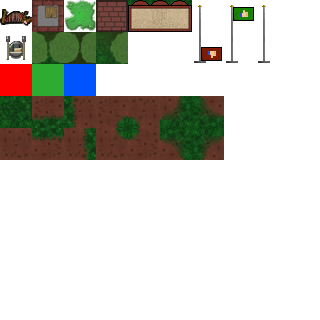
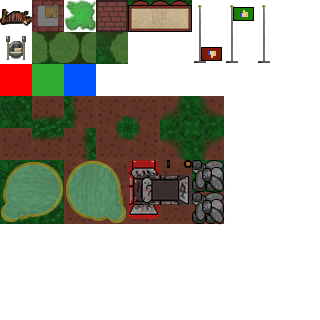
Tidy up, collision arrays

Changed region(s): [[0.0, 0.5, 0.7188, 0.7188]]

diff --git a/LDJAM27/map1/map1.js b/LDJAM27/map1/map1.js
@@ -1,7 +1,7 @@
 map1 = { "height":20,
  "layers":[
         {
-         "data":[31, 31, 31, 41, 41, 41, 37, 32, 35, 41, 41, 44, 46, 14, 13, 13, 13, 13, 13, 13, 31, 31, 31, 41, 41, 41, 41, 41, 33, 41, 41, 41, 44, 46, 31, 14, 12, 12, 13, 13, 31, 31, 31, 47, 42, 42, 42, 42, 45, 41, 41, 41, 41, 44, 42, 42, 46, 31, 14, 12, 31, 31, 47, 45, 41, 41, 41, 41, 41, 41, 41, 41, 41, 41, 41, 41, 44, 46, 31, 31, 31, 47, 45, 41, 41, 41, 41, 41, 41, 41, 41, 41, 41, 41, 41, 41, 41, 44, 46, 31, 47, 45, 41, 41, 41, 41, 41, 41, 41, 41, 41, 41, 41, 41, 41, 41, 41, 41, 43, 31, 33, 41, 41, 41, 41, 41, 41, 41, 41, 41, 41, 41, 41, 41, 41, 41, 41, 41, 43, 31, 37, 32, 35, 41, 41, 41, 41, 41, 41, 41, 41, 41, 41, 41, 41, 41, 41, 41, 44, 46, 41, 31, 33, 41, 41, 41, 41, 41, 41, 41, 41, 41, 41, 41, 41, 41, 41, 41, 41, 44, 41, 31, 37, 35, 41, 41, 41, 41, 41, 41, 41, 41, 41, 41, 41, 41, 41, 41, 41, 41, 41, 31, 31, 33, 41, 41, 41, 41, 41, 41, 41, 41, 41, 41, 41, 41, 41, 41, 41, 41, 41, 31, 31, 33, 41, 41, 41, 41, 41, 41, 41, 41, 41, 41, 41, 41, 41, 41, 41, 41, 31, 31, 47, 45, 41, 41, 41, 41, 41, 41, 41, 41, 41, 41, 41, 41, 41, 41, 41, 41, 31, 47, 45, 41, 41, 41, 41, 41, 41, 41, 41, 41, 41, 41, 41, 41, 41, 41, 41, 41, 41, 45, 41, 41, 41, 41, 41, 41, 41, 41, 41, 41, 41, 41, 41, 41, 41, 41, 41, 41, 41, 41, 41, 41, 41, 41, 41, 41, 41, 41, 41, 41, 41, 41, 41, 41, 41, 41, 41, 41, 41, 41, 41, 32, 32, 32, 32, 32, 32, 32, 32, 32, 32, 32, 32, 32, 32, 41, 41, 41, 41, 41, 41, 31, 31, 31, 31, 31, 31, 31, 31, 31, 31, 31, 31, 31, 31, 41, 41, 41, 41, 41, 41, 31, 31, 31, 31, 31, 31, 31, 31, 31, 31, 31, 31, 31, 31, 41, 41, 41, 41, 41, 41, 41, 41, 31, 31, 31, 31, 5, 6, 31, 31, 31, 31, 31, 41, 41, 41, 41],
+         "data":[31, 31, 31, 31, 41, 41, 41, 41, 44, 42, 42, 46, 31, 31, 14, 13, 13, 13, 13, 13, 31, 31, 31, 31, 41, 41, 41, 41, 41, 41, 41, 44, 46, 31, 31, 31, 14, 12, 13, 13, 31, 31, 31, 31, 31, 41, 41, 41, 41, 41, 41, 41, 44, 42, 42, 46, 31, 31, 14, 12, 31, 31, 31, 31, 31, 31, 41, 41, 41, 41, 41, 41, 41, 41, 41, 44, 42, 46, 31, 31, 31, 31, 31, 31, 31, 31, 41, 41, 41, 41, 41, 41, 41, 41, 41, 41, 41, 44, 42, 42, 31, 31, 31, 31, 31, 31, 33, 41, 41, 41, 41, 41, 41, 41, 41, 41, 41, 41, 41, 41, 46, 31, 47, 42, 42, 42, 45, 41, 41, 41, 41, 41, 41, 41, 41, 41, 41, 41, 41, 41, 41, 31, 41, 41, 41, 41, 41, 41, 41, 41, 41, 41, 41, 41, 41, 41, 41, 41, 41, 41, 41, 42, 46, 41, 41, 41, 41, 41, 41, 41, 41, 41, 41, 41, 41, 41, 41, 41, 41, 41, 41, 41, 44, 41, 41, 41, 41, 41, 41, 41, 41, 41, 41, 41, 41, 41, 41, 41, 41, 41, 41, 41, 41, 41, 41, 41, 41, 41, 41, 41, 41, 41, 41, 41, 41, 41, 41, 41, 41, 41, 41, 41, 41, 41, 41, 41, 41, 41, 41, 41, 41, 41, 41, 41, 41, 41, 41, 41, 41, 41, 41, 41, 41, 41, 41, 41, 41, 41, 41, 41, 41, 41, 41, 41, 41, 41, 41, 41, 41, 41, 41, 41, 41, 41, 41, 41, 41, 41, 41, 41, 41, 41, 41, 41, 41, 41, 41, 41, 41, 41, 41, 41, 41, 41, 41, 41, 41, 41, 41, 41, 41, 41, 41, 41, 41, 41, 41, 41, 41, 41, 41, 41, 41, 41, 41, 41, 41, 41, 41, 41, 41, 41, 41, 41, 41, 41, 41, 41, 41, 41, 41, 41, 41, 41, 41, 41, 41, 41, 41, 41, 41, 41, 41, 41, 41, 41, 41, 41, 41, 41, 41, 41, 41, 31, 31, 31, 31, 31, 31, 31, 31, 31, 31, 31, 31, 31, 31, 31, 41, 41, 41, 41, 41, 41, 31, 31, 31, 31, 31, 31, 31, 31, 31, 31, 31, 31, 31, 41, 41, 41, 41, 41, 41, 41, 41, 31, 31, 31, 31, 5, 6, 31, 31, 31, 31, 31, 41, 41, 41, 41],
          "height":20,
          "name":"Terrain",
          "opacity":1,
@@ -12,7 +12,7 @@ map1 = { "height":20,
          "y":0
         }, 
         {
-         "data":[0, 0, 0, 4, 4, 4, 0, 0, 0, 0, 0, 0, 0, 0, 0, 0, 0, 0, 0, 0, 0, 0, 0, 4, 4, 4, 4, 4, 0, 0, 0, 0, 0, 0, 0, 0, 0, 0, 0, 0, 0, 0, 0, 0, 0, 0, 0, 0, 0, 0, 0, 0, 0, 0, 0, 0, 0, 0, 0, 0, 0, 0, 0, 0, 0, 0, 0, 0, 0, 0, 0, 0, 0, 0, 0, 0, 0, 0, 0, 0, 0, 0, 0, 0, 0, 0, 0, 0, 0, 0, 0, 0, 0, 0, 0, 0, 0, 0, 0, 0, 0, 0, 0, 0, 0, 0, 0, 0, 0, 0, 0, 0, 4, 4, 0, 0, 0, 0, 0, 0, 0, 0, 0, 0, 0, 0, 0, 4, 4, 4, 4, 4, 4, 4, 4, 0, 0, 0, 0, 0, 0, 0, 0, 0, 0, 0, 0, 0, 0, 4, 4, 4, 4, 4, 4, 0, 0, 0, 0, 0, 4, 0, 0, 0, 0, 0, 0, 0, 4, 4, 0, 0, 0, 0, 0, 0, 0, 0, 0, 0, 4, 0, 0, 0, 0, 0, 0, 0, 0, 0, 0, 0, 0, 0, 0, 0, 0, 0, 0, 0, 4, 0, 0, 0, 0, 0, 0, 0, 0, 0, 0, 0, 0, 0, 4, 0, 0, 0, 0, 0, 4, 0, 0, 0, 0, 0, 0, 0, 0, 0, 0, 0, 0, 0, 4, 4, 0, 0, 0, 0, 0, 0, 0, 0, 0, 0, 0, 0, 0, 0, 0, 0, 0, 0, 0, 0, 0, 0, 0, 0, 0, 0, 0, 0, 0, 0, 0, 0, 0, 0, 0, 0, 0, 0, 0, 0, 0, 0, 0, 0, 4, 0, 0, 0, 0, 0, 0, 0, 0, 0, 0, 0, 0, 0, 0, 0, 0, 0, 0, 4, 4, 4, 0, 0, 0, 0, 0, 0, 0, 0, 0, 0, 0, 0, 0, 0, 0, 0, 4, 4, 4, 4, 4, 0, 0, 0, 0, 0, 0, 0, 0, 0, 0, 0, 0, 0, 0, 4, 4, 4, 4, 4, 4, 0, 0, 0, 0, 0, 0, 0, 0, 0, 0, 0, 0, 0, 0, 4, 4, 4, 4, 4, 4, 0, 0, 0, 0, 0, 8, 0, 0, 0, 0, 0, 0, 0, 0, 4, 4, 4, 4, 4, 4, 4, 4, 0, 0, 0, 18, 0, 0, 0, 0, 0, 0, 0, 4, 4, 4, 4],
+         "data":[0, 0, 0, 0, 57, 37, 35, 0, 0, 0, 0, 0, 0, 0, 0, 0, 0, 0, 0, 0, 0, 0, 0, 0, 57, 57, 37, 35, 0, 0, 0, 0, 0, 0, 0, 0, 0, 0, 0, 0, 0, 0, 0, 0, 0, 57, 57, 33, 0, 0, 0, 0, 0, 0, 0, 0, 0, 0, 0, 0, 0, 51, 52, 0, 0, 0, 57, 33, 0, 0, 0, 0, 0, 0, 0, 0, 0, 0, 0, 0, 0, 61, 62, 0, 0, 0, 57, 33, 0, 0, 0, 0, 0, 0, 0, 0, 0, 0, 0, 0, 0, 0, 0, 0, 0, 0, 47, 45, 0, 0, 0, 0, 0, 0, 0, 0, 0, 0, 0, 0, 31, 0, 31, 31, 47, 0, 0, 0, 0, 0, 0, 0, 55, 56, 0, 0, 0, 0, 0, 0, 57, 0, 57, 57, 33, 0, 0, 0, 0, 0, 0, 0, 65, 66, 0, 0, 0, 0, 0, 0, 57, 47, 0, 57, 33, 0, 0, 0, 0, 0, 0, 0, 67, 0, 0, 0, 0, 0, 0, 0, 57, 33, 43, 57, 33, 0, 0, 53, 54, 0, 0, 67, 67, 0, 0, 0, 0, 0, 0, 0, 57, 33, 43, 57, 37, 35, 0, 63, 64, 0, 0, 67, 67, 0, 0, 0, 0, 0, 0, 0, 42, 45, 43, 57, 57, 33, 0, 0, 0, 0, 0, 67, 67, 0, 0, 0, 0, 0, 0, 0, 0, 0, 44, 42, 42, 45, 0, 0, 0, 0, 0, 67, 0, 0, 0, 0, 0, 0, 0, 0, 57, 0, 0, 0, 0, 0, 0, 0, 0, 0, 0, 0, 0, 0, 0, 0, 0, 0, 0, 0, 57, 0, 0, 0, 0, 0, 0, 0, 0, 0, 0, 0, 0, 0, 0, 0, 0, 0, 0, 67, 57, 57, 0, 0, 0, 0, 0, 0, 0, 0, 0, 0, 0, 0, 0, 0, 0, 0, 0, 67, 57, 57, 57, 0, 0, 0, 0, 0, 0, 0, 0, 0, 0, 0, 0, 0, 0, 0, 67, 67, 57, 57, 57, 0, 0, 0, 0, 0, 0, 0, 0, 0, 0, 0, 0, 0, 0, 0, 57, 57, 57, 57, 57, 57, 0, 0, 0, 0, 0, 0, 0, 0, 0, 0, 0, 0, 0, 57, 57, 57, 57, 57, 57, 57, 57, 0, 0, 0, 0, 0, 0, 0, 0, 0, 0, 0, 57, 57, 57, 57],
          "height":20,
          "name":"Impassable",
          "opacity":1,
@@ -23,7 +23,7 @@ map1 = { "height":20,
          "y":0
         }, 
         {
-         "data":[0, 0, 0, 0, 0, 0, 0, 0, 0, 0, 0, 0, 0, 0, 0, 0, 0, 0, 0, 0, 0, 0, 0, 0, 0, 0, 0, 0, 0, 0, 0, 0, 0, 0, 0, 0, 0, 0, 0, 0, 0, 0, 0, 0, 0, 0, 0, 0, 0, 0, 0, 0, 0, 0, 0, 0, 0, 0, 0, 0, 0, 0, 0, 0, 1, 0, 0, 0, 0, 0, 0, 0, 0, 0, 0, 0, 0, 0, 0, 0, 0, 0, 0, 0, 1, 0, 0, 0, 0, 0, 0, 0, 0, 0, 0, 0, 0, 0, 0, 0, 0, 0, 0, 0, 1, 0, 0, 0, 0, 0, 0, 0, 0, 0, 0, 0, 0, 0, 0, 0, 0, 0, 0, 0, 0, 0, 0, 0, 0, 0, 0, 0, 0, 0, 0, 0, 0, 0, 0, 0, 0, 0, 0, 0, 0, 0, 0, 0, 0, 0, 0, 0, 0, 0, 0, 0, 0, 0, 0, 0, 0, 0, 0, 0, 0, 0, 0, 0, 0, 0, 0, 0, 0, 3, 3, 0, 0, 0, 0, 0, 0, 0, 0, 2, 2, 2, 2, 0, 0, 0, 0, 0, 0, 3, 3, 0, 0, 0, 0, 0, 0, 0, 0, 11, 11, 11, 11, 0, 0, 0, 0, 0, 0, 0, 0, 0, 0, 0, 0, 0, 0, 0, 0, 0, 0, 0, 0, 0, 0, 0, 0, 0, 0, 0, 0, 0, 0, 0, 0, 0, 0, 0, 0, 0, 0, 0, 0, 0, 0, 0, 0, 0, 0, 0, 0, 0, 0, 0, 0, 0, 0, 0, 0, 0, 0, 0, 0, 0, 0, 0, 0, 0, 0, 0, 0, 0, 41, 0, 0, 0, 0, 0, 0, 0, 0, 0, 0, 0, 0, 0, 0, 0, 0, 0, 0, 0, 0, 0, 0, 0, 0, 0, 0, 0, 0, 0, 0, 0, 0, 0, 0, 0, 0, 0, 0, 0, 0, 0, 0, 0, 0, 0, 0, 0, 0, 0, 0, 0, 0, 0, 0, 0, 2, 11, 1, 3, 0, 0, 0, 0, 0, 0, 0, 0, 0, 0, 0, 0, 0, 0, 0, 0, 2, 11, 1, 3, 0, 0, 0, 0, 0, 0, 0, 0, 0, 0, 0, 0, 0, 0, 0, 0, 0, 0, 0, 0, 0, 0, 0, 0, 0, 0, 0, 0, 0, 0, 0, 0, 0, 0, 0, 0, 0, 0, 0, 0, 0, 0, 0, 0],
+         "data":[0, 0, 0, 0, 0, 0, 0, 0, 0, 0, 0, 0, 0, 0, 0, 0, 0, 0, 0, 0, 0, 0, 0, 0, 0, 0, 0, 0, 0, 0, 0, 0, 0, 0, 0, 0, 0, 0, 0, 0, 0, 0, 0, 0, 0, 0, 0, 0, 0, 0, 0, 0, 0, 0, 0, 0, 0, 0, 0, 0, 0, 0, 0, 0, 0, 0, 0, 0, 0, 0, 0, 0, 0, 0, 0, 0, 0, 0, 0, 0, 0, 0, 0, 0, 0, 0, 0, 0, 0, 0, 0, 0, 0, 0, 0, 0, 0, 0, 0, 0, 0, 0, 0, 0, 0, 0, 0, 0, 0, 0, 0, 0, 0, 0, 0, 0, 0, 0, 0, 0, 0, 0, 0, 0, 0, 0, 0, 0, 0, 0, 0, 0, 0, 0, 0, 0, 0, 0, 0, 0, 0, 0, 0, 0, 0, 0, 0, 0, 0, 0, 0, 0, 0, 0, 0, 0, 0, 0, 0, 0, 0, 0, 0, 0, 0, 0, 0, 0, 0, 0, 0, 0, 0, 0, 0, 0, 0, 0, 0, 0, 0, 0, 0, 0, 0, 0, 0, 0, 0, 0, 0, 0, 0, 0, 0, 0, 0, 0, 0, 0, 0, 0, 0, 0, 0, 0, 0, 0, 0, 0, 0, 0, 0, 0, 0, 0, 0, 0, 0, 0, 0, 0, 0, 0, 0, 0, 0, 0, 0, 0, 0, 0, 0, 0, 0, 0, 0, 0, 0, 0, 0, 0, 0, 0, 0, 0, 0, 0, 0, 0, 0, 0, 0, 0, 0, 0, 0, 0, 0, 0, 0, 0, 0, 0, 0, 0, 0, 0, 0, 0, 0, 0, 0, 0, 0, 0, 0, 0, 0, 0, 0, 37, 35, 0, 0, 0, 0, 0, 0, 0, 0, 0, 0, 0, 0, 0, 0, 0, 0, 0, 0, 0, 37, 35, 0, 0, 0, 0, 0, 0, 0, 0, 0, 0, 0, 0, 0, 0, 0, 0, 0, 0, 0, 37, 0, 0, 0, 0, 0, 0, 0, 0, 0, 0, 0, 0, 0, 0, 0, 0, 0, 0, 0, 0, 0, 0, 0, 0, 0, 0, 0, 0, 0, 0, 0, 0, 0, 0, 0, 0, 0, 0, 0, 0, 0, 0, 0, 0, 0, 0, 0, 0, 0, 0, 0, 0, 0, 0, 0, 0, 0, 0, 0, 0, 0, 0, 0, 0, 0, 0, 0, 0, 0, 0, 0, 0, 0, 0, 0, 0],
          "height":20,
          "name":"Weapons",
          "opacity":1,
@@ -46,7 +46,7 @@ map1 = { "height":20,
          "imageheight":320,
          "imagewidth":320,
          "margin":0,
-         "name":"tile sheet",
+         "name":"tile_sheet",
          "properties":
             {
 

diff --git a/LDJAM27/main.html b/LDJAM27/main.html
@@ -8,29 +8,12 @@
 <script src="tilemap.js"></script>
 <script src="zombie.js"></script>
 <script src="map1/map1.js"></script>
+<script src="game.js"></script>
 </head>
 <body>
 <script>
-var GAME_WIDTH = 640;
+var GAME_WIDTH = 840;
 var GAME_HEIGHT = 640;
-
-var lastFrame=new Date();
-
-var assetsToLoad = [ "bgsmall.png","scaryzombie.png" ];
-
-var assetloader = new PIXI.AssetLoader(assetsToLoad);
-
-var zombies = new entityList;
-
-//var map = newTileMap("map1");
-
-assetloader.onComplete = load;
-
-var renderer = PIXI.autoDetectRenderer(GAME_WIDTH,GAME_HEIGHT);
-
-var stage = new PIXI.Stage(0xFFFFFF,true);
-
-document.body.appendChild(renderer.view);
 
 // Stolen from http://29a.ch/sandbox/2012/fluidcanvas/fluid.js
 var requestAnimationFrame = (window.requestAnimationFrame || 
@@ -41,55 +24,17 @@ var requestAnimationFrame = (window.requestAnimationFrame ||
     function( callback ){
         window.setTimeout(callback, 1000 / 60);
     });
-    
-assetloader.load();
 
-function load() {
-    loadTileMap(map1,stage);
-    alert("Tile map loaded!");
-    stevetexture = PIXI.Texture.fromImage("scaryzombie.png");
-    stevesprite = new PIXI.Sprite(stevetexture);
-    stevesprite.scale = new PIXI.Point(6.4,6.4);
-    steve = new zombie(stevesprite);
-    stage.addChild(stevesprite);
-    
-    zombies.add(steve);
-    
-    requestAnimationFrame(gameLoop);
-}
+game = new Game(GAME_WIDTH,GAME_HEIGHT);
+document.body.appendChild(game.renderer.view);
 
-function gameLoop() {
-    var thisFrame=new Date();
-    var delta=thisFrame.getTime()-lastFrame.getTime();
-    lastFrame=thisFrame;
-    
-    zombies.update(delta);
-    //alert("about to render scene.");
-    renderer.render(stage);
-    //alert("Scene rendered!");
-    
-    requestAnimationFrame(gameLoop);
-}
+level1 = new GameContext(map1);
+game.activeContext = level1;
 
-function entityList(pEntities) {
-    if (pEntities !== undefined) this.entities = pEntities;
-    else this.entities = new Array;
-    
-    this.add = add;
-    function add(ent) {
-        this.entities.push(ent);
-    }
-    
-    this.update = update;
-    function update(delta) {
-        for (var i in this.entities) {
-            ent = this.entities[i];
-            if(ent.update !== undefined) {
-                ent.update(delta);
-            }
-        }
-    }
-}
+(function loop() {
+    game.gameLoop();
+    requestAnimationFrame(loop);
+})();
 </script>
 </body>
 </html>

diff --git a/LDJAM27/game.js b/LDJAM27/game.js
@@ -1,0 +1,78 @@
+function Game(width,height) {
+    var self = this;
+    this.renderer = PIXI.autoDetectRenderer(width,height);
+    
+    this.lastFrame=new Date();
+
+    this.activeContext = null;
+    
+    self.gameLoop = gameLoop;
+    function gameLoop() {
+        if(self.ready()) {
+        
+            var thisFrame=new Date();
+            var delta=thisFrame.getTime()-self.lastFrame.getTime();
+            self.lastFrame=thisFrame;
+            
+            self.activeContext.update(delta);
+            //alert("about to render scene.");
+            self.renderer.render(self.activeContext.stage);
+            //alert("Scene rendered!");
+        }
+    }
+    
+    self.ready = ready;
+    function ready() {
+        return self.activeContext.loaded;
+    }
+}
+
+function GameContext(map) {
+    var self = this;
+    this.stage = new PIXI.Stage(0x77FF77,true);
+    this.zombies = new entityList(this);
+    this.turrets = new entityList(this);
+    this.loaded = false;
+    
+    self.assetsLoaded = assetsLoaded;
+    function assetsLoaded() {
+        self.gameMap = loadTileMap(map,self.stage);
+        zombie1 = new zombie(30,30);
+        self.zombies.add(zombie1);
+        self.stage.addChild(zombie1.sprite);
+        self.loaded = true;
+    }
+    
+    var assetsToLoad = [ "zombies/scaryzombie.png" ];
+    assetloader = new PIXI.AssetLoader(assetsToLoad);
+    assetloader.onComplete = self.assetsLoaded;
+    assetloader.load();
+    
+    self.update = update;
+    function update(delta) {
+        self.zombies.update(delta);
+    }
+}
+
+function entityList(context,pEntities) {
+    var self = this;
+    this.context = context;
+    if (pEntities !== undefined) this.entities = pEntities;
+    else this.entities = new Array;
+    
+    self.add = add;
+    function add(ent) {
+        self.entities.push(ent);
+        ent.context = self.context;
+    }
+    
+    self.update = update;
+    function update(delta) {
+        for (var i in self.entities) {
+            ent = self.entities[i];
+            if(ent.update !== undefined) {
+                ent.update(delta);
+            }
+        }
+    }
+}

diff --git a/LDJAM27/tilemap.js b/LDJAM27/tilemap.js
@@ -21,10 +21,10 @@ function loadTileMap (tilemap, stage) {
                             height: tileset.tileheight
                         }
                         tile = new PIXI.Texture(tilebase, frame);
-                        alert(tile.frame.x+" "+tile.frame.y+" "+tile.frame.width+" "+tile.frame.height);
+                        //alert(tile.frame.x+" "+tile.frame.y+" "+tile.frame.width+" "+tile.frame.height);
                         
                         usedGids[gid] = tile;
-                        alert("Loading tileset "+tileset.name+" at "+tileset.image);
+                        //alert("Loading tileset "+tileset.name+" at "+tileset.image);
                         break;
                     }
                 }
@@ -41,8 +41,21 @@ function loadTileMap (tilemap, stage) {
             }
         }
         
-        alert("Finished with "+tilemap.layers[l].name);
+        //alert("Finished with "+tilemap.layers[l].name);
     }
+}
+
+function getCollidableArray(tilemap) {
+    var collidableArray = new Array(tilemap.width*tilemap.height);
+    for(var i in collidableArray) collidableArray[i] = 0;
+    for(var l in tilemap.layers) {
+        if (tilemap.layers[l].collidable == "true") {
+            for(var d in tilemap.layers[l].data) {
+                colliableArray[d] = tilemap.layers[l].data[d] == 0 ? collidableArray[d] : 1;
+            }
+        }
+    }
+    return { width: tilemap.width, height: tilemap.height, array: collidableArray };
 }
 
 function gidUsed(gid,usedGids) {

diff --git a/LDJAM27/zombie.js b/LDJAM27/zombie.js
@@ -1,16 +1,33 @@
-function zombie(pSprite) {
-    this.sprite = pSprite;
-    this.vel_x = 1;
-    this.vel_y = 1;
+function zombie(pos0_x,pos0_y) {
+    var self = this;
+    this.image = "zombies/scaryzombie.png";
+    this.texture = PIXI.Texture.fromImage(this.image);
+    this.sprite = new PIXI.Sprite(this.texture);
+    this.sprite.scale = new PIXI.Point(6.4,6.4);
+    this.vel_x = 50;
+    this.vel_y = 50;
+    this.max_speed = 3;
 
-    this.update = update;
+    this.sprite.position = new PIXI.Point(pos0_x,pos0_y);
+    
+    self.update = update;
     function update() {
-        this.updatePosition();
+        self.normaliseVelocity();
+        self.updatePosition();
     }
     
-    this.updatePosition = updatePosition;
+    self.updatePosition = updatePosition;
     function updatePosition() {
-        this.sprite.position.x += this.vel_x;
-        this.sprite.position.y += this.vel_y;
+        self.sprite.position.x += self.vel_x;
+        self.sprite.position.y += self.vel_y;
+    }
+    
+    self.normaliseVelocity = normaliseVelocity;
+    function normaliseVelocity() {
+        hyp=Math.sqrt(Math.pow(self.vel_x,2)+Math.pow(self.vel_y,2));
+        if(hyp > self.max_speed) {
+            self.vel_x = self.max_speed*self.vel_x/hyp;
+            self.vel_y = self.max_speed*self.vel_y/hyp;
+        }
     }
 }
